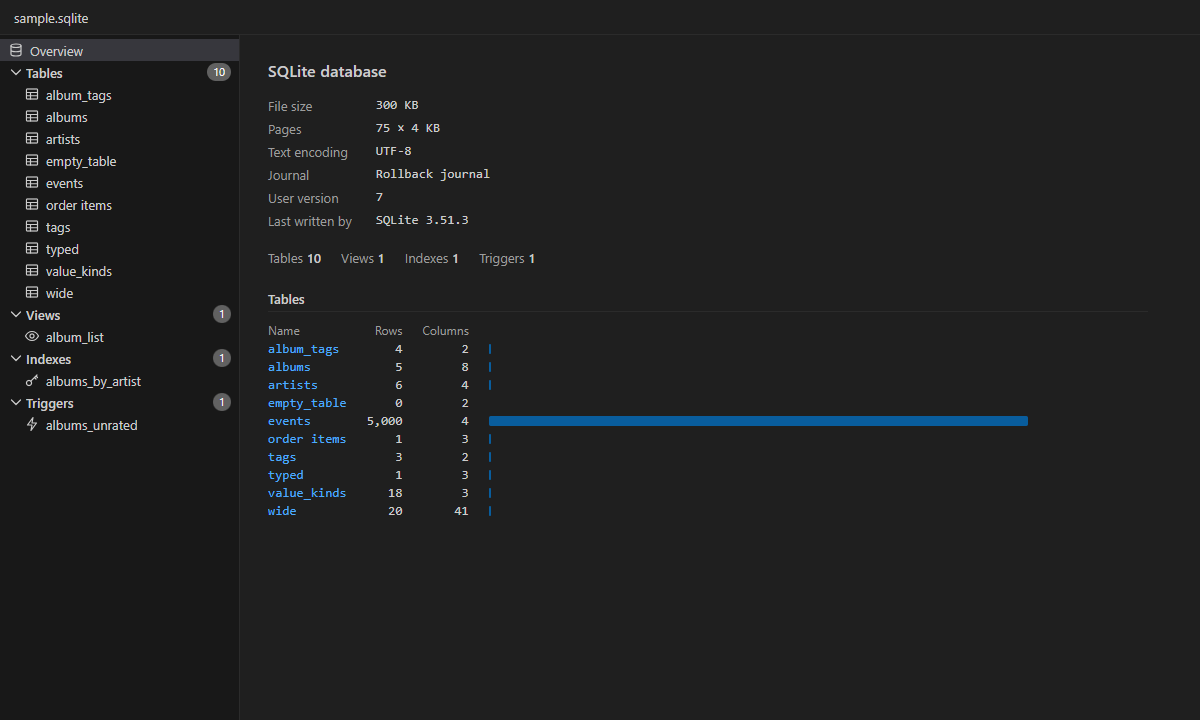
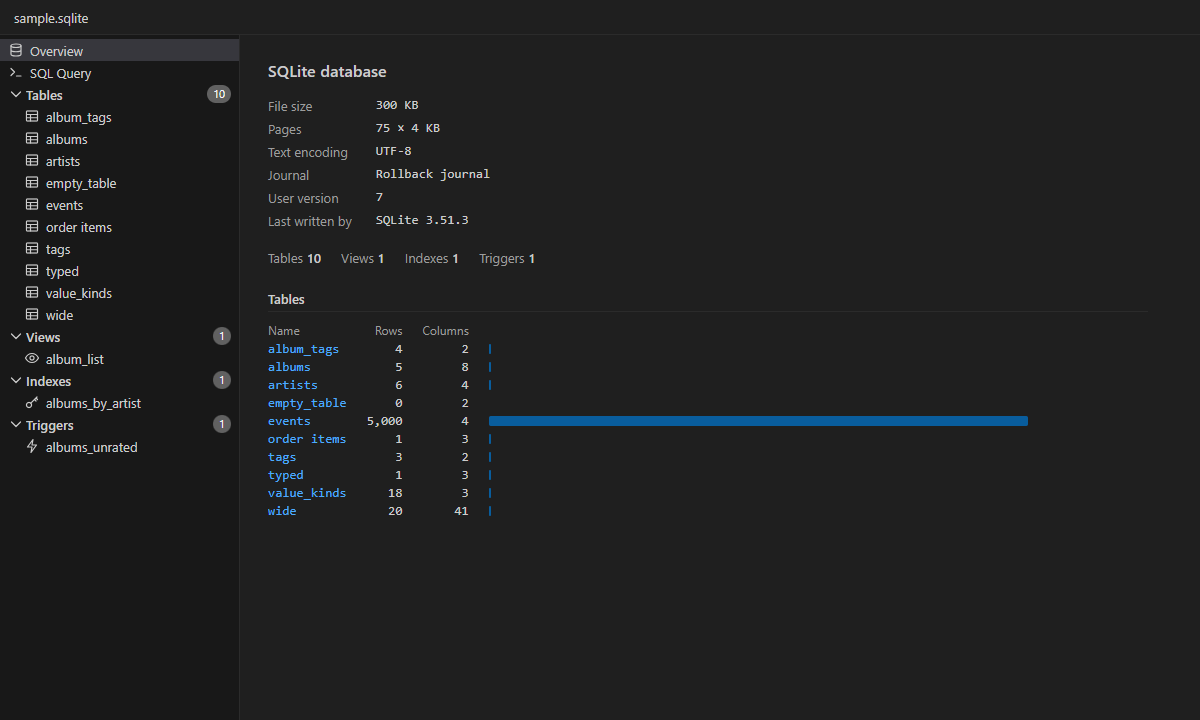
chore: prepare the 1.0.0 release
Version 1.0.0, out of preview. The changelog's 1.0.0 section leads
with the query page, sorting, filtering and export, then the MBTiles
and GeoPackage views. The Marketplace description now says what can be
done with rows and that Nightlite is read-only by default, and the
keywords add query, csv and export. The README screenshots are taken
again, with the new sidebar entries and toolbar.

diff --git a/CHANGELOG.md b/CHANGELOG.md
@@ -6,16 +6,39 @@ and this project adheres to [Semantic Versioning](https://semver.org/spec/v2.0.0
 
 ## [Unreleased]
 
+## [1.0.0] - 2026-10-14
+
+Query, sort, filter and export rows; browse and inspect MBTiles tiles and edit their metadata;
+see a GeoPackage's contents and geometries. Out of preview.
+
 ### Added
 
-- **Metadata** for MBTiles, in the sidebar under the tile browser: the tileset's metadata as a
-  form. Change, add or remove keys; values are checked against the MBTiles 1.3 spec as you type,
-  and minzoom and maxzoom against the tiles, without stopping a save. Changes are marked and the
-  editor tab shows them unsaved; **Save** (<kbd>Ctrl</kbd>+<kbd>S</kbd>) writes them into the
-  file in one transaction, **Undo** takes back a field's typing at once, **Revert** drops them,
-  and VS Code keeps them if it closes before you save. If another program changed the file
-  since, Nightlite asks first; if the file is locked or read-only, it says so and keeps your
-  changes. This is the only time Nightlite writes to a file.
+- **SQL Query**, in the sidebar and as **Open SQL Query** in the Command Palette: run a statement
+  that reads (`SELECT`, `WITH … SELECT`, `VALUES`, `EXPLAIN`, or a `PRAGMA` that reports, like
+  `table_info`) with <kbd>Ctrl</kbd>+<kbd>Enter</kbd>, and its rows show in the same grid tables
+  do, with copying and cell details. Statements that would write are turned down before they
+  run, and queries run on a read-only connection of their own, so the file is never changed.
+  **Stop** (<kbd>Escape</kbd>) keeps the rows read so far; results hold up to 100,000 rows.
+- Sort a table or view by a column, ascending or descending, from the column's header or the
+  grid's context menu (**Sort Ascending**, **Sort Descending**, **Clear Sort**).
+- **Search rows** above the grid (<kbd>Ctrl</kbd>+<kbd>F</kbd>) shows the rows with some text in
+  any column, and **Filter by Column** adds a filter under each column's name: text to find, or
+  `=`, `<>`, `<`, `<=`, `>`, `>=` and a value, or `=NULL` and `<>NULL`. Sorting and filtering
+  run in the background with their progress shown, and **Stop** (<kbd>Escape</kbd>) keeps the
+  rows found so far; the sorted or filtered rows then scroll, copy and jump like the table's
+  own. Each table keeps its sort, search and filters.
+- **Export Rows…**, in the toolbar, the grid's context menu and the Command Palette, writes the
+  rows on screen to a CSV or JSON file you pick: a table's rows as shown, sorted and filtered,
+  or every row a query returns, not only those the grid holds. Values are whole, integers to the
+  last digit and BLOBs as hex; the file is written as the rows are read, with progress and
+  **Cancel**, so memory stays flat even for millions of rows.
+- **Copy as Markdown Table**, in the grid's context menu and the Command Palette: the selected
+  cells as a Markdown table headed by their column names, columns lined up and numbers aligned
+  to the right, ready to paste into a README, an issue or a chat. A right click selects the cell
+  it's on, unless it's on the selection.
+- Cell details show a BLOB that holds an image (PNG, JPEG, WebP, GIF) as the picture, with its
+  size in pixels, and one that holds text as the text, JSON indented and colored. **Hex** shows
+  the bytes instead, and stays picked for the next BLOBs until you switch back.
 - A tile browser for MBTiles, in the sidebar under the overview. Pick a zoom level, type a
   tile's z/x/y, paste a tile URL, or pick a tile from the zoom level's list, which scrolls
   through millions of tiles. The arrow keys move to the neighboring tiles and <kbd>+</kbd> and
@@ -31,9 +54,14 @@ and this project adheres to [Semantic Versioning](https://semver.org/spec/v2.0.0
 - **Save Tile…** writes the tile shown to a file you pick, named by its address, like
   `14-8723-5412.pbf`: images as they are, vector tiles uncompressed, or gzip-compressed when the
   name ends in `.gz`. Nothing is written to the tileset.
-- Cell details show a BLOB that holds an image (PNG, JPEG, WebP, GIF) as the picture, with its
-  size in pixels, and one that holds text as the text, JSON indented and colored. **Hex** shows
-  the bytes instead, and stays picked for the next BLOBs until you switch back.
+- **Metadata** for MBTiles, in the sidebar under the tile browser: the tileset's metadata as a
+  form. Change, add or remove keys; values are checked against the MBTiles 1.3 spec as you type,
+  and minzoom and maxzoom against the tiles, without stopping a save. Changes are marked and the
+  editor tab shows them unsaved; **Save** (<kbd>Ctrl</kbd>+<kbd>S</kbd>) writes them into the
+  file in one transaction, **Undo** takes back a field's typing at once, **Revert** drops them,
+  and VS Code keeps them if it closes before you save. If another program changed the file
+  since, Nightlite asks first; if the file is locked or read-only, it says so and keeps your
+  changes. This is the only time Nightlite writes to a file.
 - A GeoPackage's overview lists its contents: each feature, tile and attribute table with its
   geometry type and column or zoom levels, its spatial reference system (like `EPSG:4326`),
   rows and bounds, then the extensions it uses, and its GeoPackage version.
@@ -41,29 +69,6 @@ and this project adheres to [Semantic Versioning](https://semver.org/spec/v2.0.0
   details draw them, with their SRS and number of points, or show them as WKT. Points, lines,
   polygons with their holes, multi-geometries, collections and curves are read, in either byte
   order, from GeoPackage's binary format.
-- **Export Rows…**, in the toolbar, the grid's context menu and the Command Palette, writes the
-  rows on screen to a CSV or JSON file you pick: a table's rows as shown, sorted and filtered,
-  or every row a query returns, not only those the grid holds. Values are whole, integers to the
-  last digit and BLOBs as hex; the file is written as the rows are read, with progress and
-  **Cancel**, so memory stays flat even for millions of rows.
-- Sort a table or view by a column, ascending or descending, from the column's header or the
-  grid's context menu (**Sort Ascending**, **Sort Descending**, **Clear Sort**).
-- **Search rows** above the grid (<kbd>Ctrl</kbd>+<kbd>F</kbd>) shows the rows with some text in
-  any column, and **Filter by Column** adds a filter under each column's name: text to find, or
-  `=`, `<>`, `<`, `<=`, `>`, `>=` and a value, or `=NULL` and `<>NULL`. Sorting and filtering
-  run in the background with their progress shown, and **Stop** (<kbd>Escape</kbd>) keeps the
-  rows found so far; the sorted or filtered rows then scroll, copy and jump like the table's
-  own. Each table keeps its sort, search and filters.
-- **SQL Query**, in the sidebar and as **Open SQL Query** in the Command Palette: run a statement
-  that reads (`SELECT`, `WITH … SELECT`, `VALUES`, `EXPLAIN`, or a `PRAGMA` that reports, like
-  `table_info`) with <kbd>Ctrl</kbd>+<kbd>Enter</kbd>, and its rows show in the same grid tables
-  do, with copying and cell details. Statements that would write are turned down before they
-  run, and queries run on a read-only connection of their own, so the file is never changed.
-  **Stop** (<kbd>Escape</kbd>) keeps the rows read so far; results hold up to 100,000 rows.
-- **Copy as Markdown Table**, in the grid's context menu and the Command Palette: the selected
-  cells as a Markdown table headed by their column names, columns lined up and numbers aligned
-  to the right, ready to paste into a README, an issue or a chat. A right click selects the cell
-  it's on, unless it's on the selection.
 
 ## [0.1.0] - 2026-10-14
 
@@ -128,5 +133,6 @@ First preview release: SQLite databases, MBTiles and GeoPackages, read-only, at 
 - Dark, light and high contrast themes, keyboard and screen reader support, and English and
   Turkish.
 
-[Unreleased]: https://github.com/mbKalkan/nightlite/compare/v0.1.0...HEAD
+[Unreleased]: https://github.com/mbKalkan/nightlite/compare/v1.0.0...HEAD
+[1.0.0]: https://github.com/mbKalkan/nightlite/compare/v0.1.0...v1.0.0
 [0.1.0]: https://github.com/mbKalkan/nightlite/releases/tag/v0.1.0
